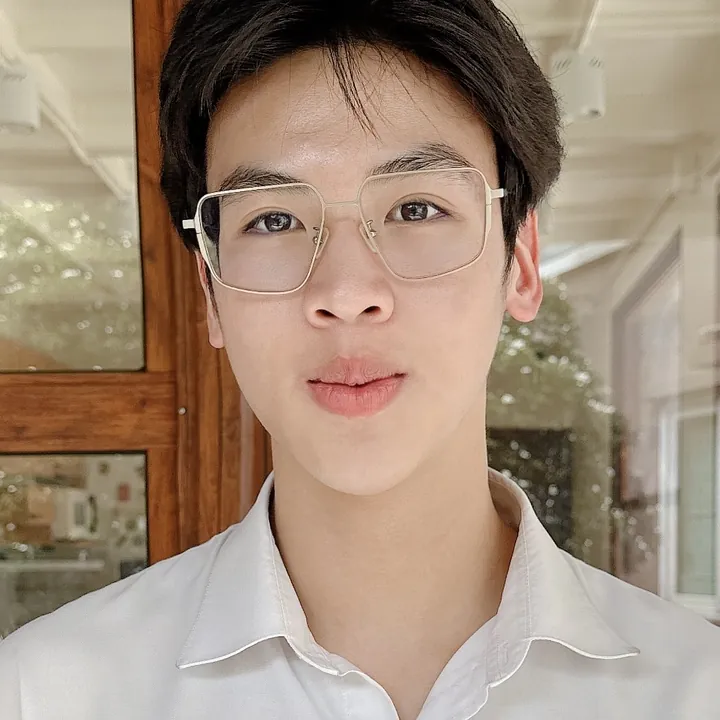
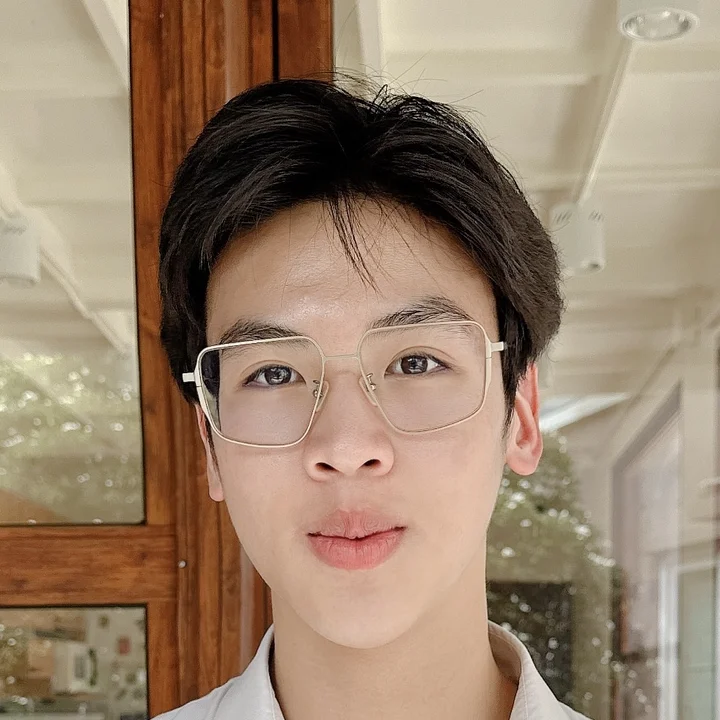
Wern Wern: new uncropped photo; revert Kundol executives photo; zoom out Kira

diff --git a/our-team/index.html b/our-team/index.html
@@ -37,7 +37,7 @@
             <li>
               <article class="card team-card">
                 <figure class="photo-slot" data-slot="team-exec-kundol" style="--ratio: 1 / 1;">
-                  <img src="../assets/images/team-exec-kundol.webp" alt="Portrait of Kundol Tangruthaiwanich" width="720" height="720" loading="lazy" decoding="async">
+                  <img src="../assets/images/founder-kundol.webp" alt="Portrait of Kundol Tangruthaiwanich" width="384" height="384" loading="lazy" decoding="async">
                 </figure>
                 <div class="team-card__body">
                   <h3 class="team-card__name">Kundol Tangruthaiwanich</h3>
